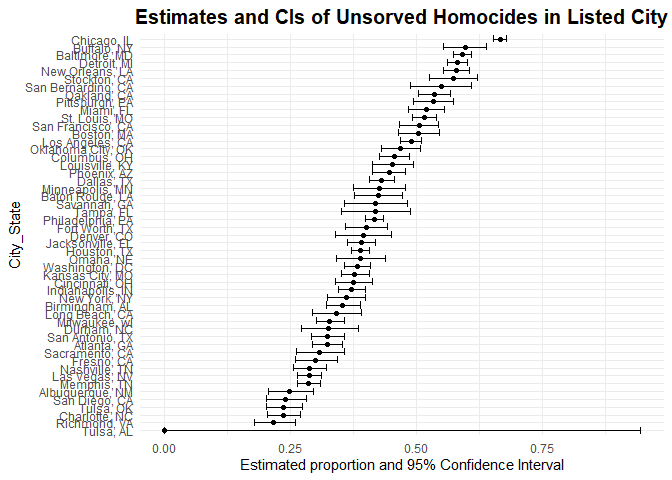
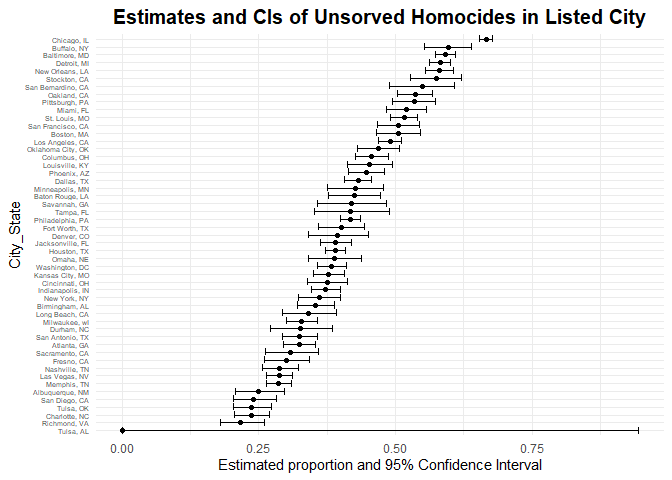
loading longitudinal data

Changed region(s): [[0.0312, 0.0, 1.0, 0.9688], [0.3438, 0.0938, 0.7188, 0.9062], [0.3125, 0.9062, 0.8438, 1.0]]

diff --git a/p8105_hw5_yl5508.md b/p8105_hw5_yl5508.md
@@ -7,7 +7,6 @@ It’s a proj for HW5 about ITERATION.
 
 ``` r
 library(tidyverse)
-options(scipen = 999)
 options(digits = 2)
 ```
 
@@ -51,16 +50,11 @@ Bal_propt_est = Bal_propt_tidy |> pull(estimate)
 Bal_proptest_int = str_c(Bal_propt_tidy |> pull(conf.low), ",", Bal_propt_tidy |> pull(conf.high))
 ```
 
-0.59 (0.573384885712592,0.609950397416565)
+0.59 (0.57,0.61)
 
 ``` r
 output = purrr::map2(tot_hom$unsolved_homocide, tot_hom$total_homocide, ~ prop.test(x = .x, n = .y, alternative = c("two.sided"), conf.level = 0.95))
-```
 
-    ## Warning in prop.test(x = .x, n = .y, alternative = c("two.sided"), conf.level =
-    ## 0.95): Chi-squared近似算法有可能不准
-
-``` r
 tot_propt_tidy =
   map_dfr(output, broom::tidy)|>
   select(estimate, conf.low, conf.high) |>
@@ -107,7 +101,7 @@ tot_propt_tidy |>
     y = "City_State",
     title = "Estimates and CIs of Unsorved Homocides in Listed City") +
   theme_minimal() +
-  theme(plot.title = element_text(size = 15, face = "bold", hjust = 0.5))
+  theme(plot.title = element_text(size = 15, face = "bold", hjust = 0.5), axis.text.y = element_text(size = 5))
 ```
 
 ![](p8105_hw5_yl5508_files/figure-gfm/hom_geom-1.png)<!-- -->
@@ -116,18 +110,43 @@ tot_propt_tidy |>
 
 ``` r
 lon_con = list()
-
 for (i in 1:10) {
-  i = if_else(i<10, str_c("0", as.character(i)), as.character(i))
-  path = str_c("./data/", "con_", i, ".csv")
-  lon_con[[i]] = read_csv(path)
+  path = str_c("./data/", "con_", if_else(i<10, str_c("0", as.character(i)), as.character(i)), ".csv")
+  res = read_csv(path)
+  res = res |> mutate(id = as.character(i))
+  lon_con[[i]] = res
 }
+lon_con_data =
+  bind_rows(lon_con) |>
+  pivot_longer(week_1:week_8, names_to = "week", values_to = "observation") |>
+  mutate(week = str_extract(week, "(?<=^.{5}).")) |>
+  mutate(arm = "con")
 
 lon_exp = list()
-
 for (i in 1:10) {
-  i = if_else(i<10, str_c("0", as.character(i)), as.character(i))
-  path = str_c("./data/", "exp_", i, ".csv")
-  lon_exp[[i]] = read_csv(path)
+  path = str_c("./data/", "exp_", if_else(i<10, str_c("0", as.character(i)), as.character(i)), ".csv")
+  res = read_csv(path)
+  res = res |> mutate(id = as.character(i))
+  lon_exp[[i]] = res
 }
+lon_exp_data = bind_rows(lon_exp) |>
+  pivot_longer(week_1:week_8, names_to = "week", values_to = "observation") |>
+  mutate(week = str_extract(week, "(?<=^.{5}).")) |>
+  mutate(arm = "exp")
+
+lon_data =
+  bind_rows(lon_con_data, lon_exp_data) |>
+  arrange(id) |>
+  janitor::clean_names()
+
+head(lon_data, 5)
 ```
+
+    ## # A tibble: 5 × 4
+    ##   id    week  observation arm  
+    ##   <chr> <chr>       <dbl> <chr>
+    ## 1 1     1            0.2  con  
+    ## 2 1     2           -1.31 con  
+    ## 3 1     3            0.66 con  
+    ## 4 1     4            1.96 con  
+    ## 5 1     5            0.23 con
